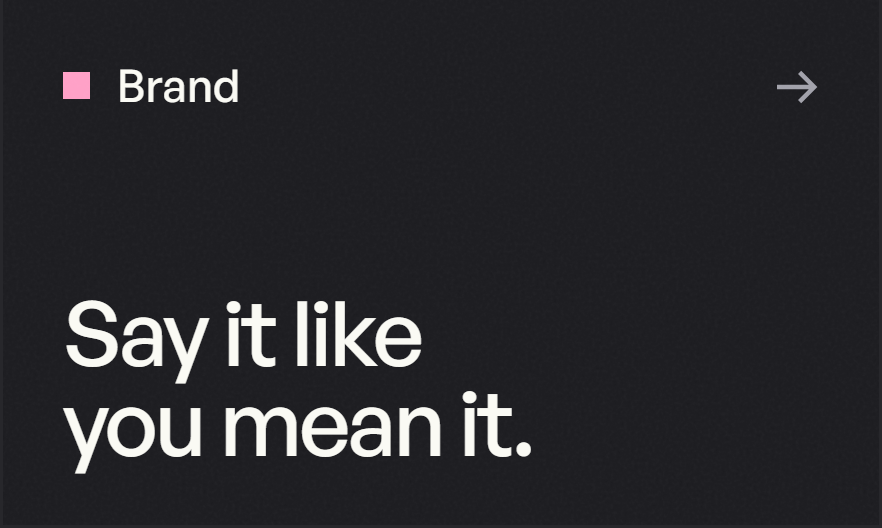
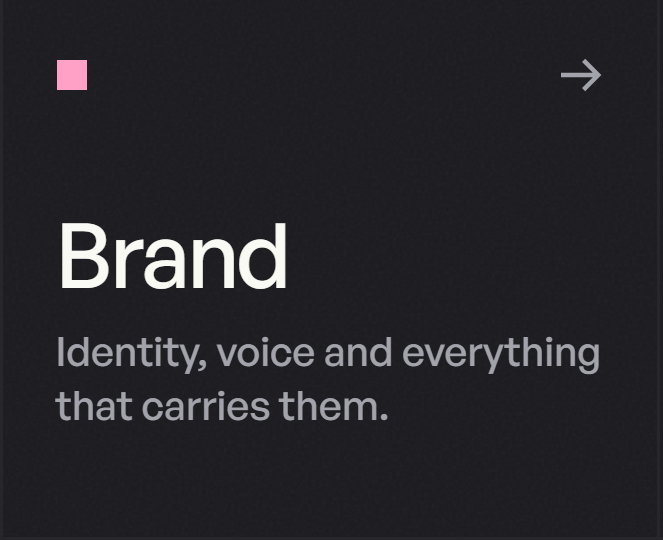
Four capabilities, as on the site

Changed region(s): [[0.0603, 0.3939, 0.905, 0.9091], [0.0603, 0.0909, 0.2715, 0.2121], [0.8446, 0.0909, 0.9351, 0.2121]]

diff --git a/README.md b/README.md
@@ -1,9 +1,9 @@
 <a href="https://www.hobi.design"><img src="assets/banner.webp" alt="House of Brilliant Ideas, a creative studio in Los Angeles and Bombay" width="100%" align="top"></a>
-<a href="https://www.hobi.design/capabilities/brand"><img src="assets/brand.png" alt="Brand: say it like you mean it." width="33.33%" align="top"></a><a href="https://www.hobi.design/capabilities/web"><img src="assets/web.png" alt="Web: sites that do the selling." width="33.33%" align="top"></a><a href="https://www.hobi.design/capabilities/product"><img src="assets/product.png" alt="Product: from idea to interface." width="33.33%" align="top"></a>
+<a href="https://www.hobi.design/capabilities/strategy"><img src="assets/strategy.png" alt="Strategy: research, positioning and the plan behind the work." width="25%" align="top"></a><a href="https://www.hobi.design/capabilities/product"><img src="assets/product.png" alt="Product: physical or digital, from the plan to the people buying it." width="25%" align="top"></a><a href="https://www.hobi.design/capabilities/brand"><img src="assets/brand.png" alt="Brand: identity, voice and everything that carries them." width="25%" align="top"></a><a href="https://www.hobi.design/capabilities/design"><img src="assets/design.png" alt="Design: sites, systems and visuals, designed and built." width="25%" align="top"></a>
 
 <br>
 
-House of Brilliant Ideas is a multidisciplinary creative studio creating memorable digital experiences for businesses, big and small. One team for research, design and storytelling, working remotely from Los Angeles and Bombay with clients around the world.
+House of Brilliant Ideas is a multidisciplinary creative studio. Working hard, remotely and from around the globe.
 
 ### Work
 
